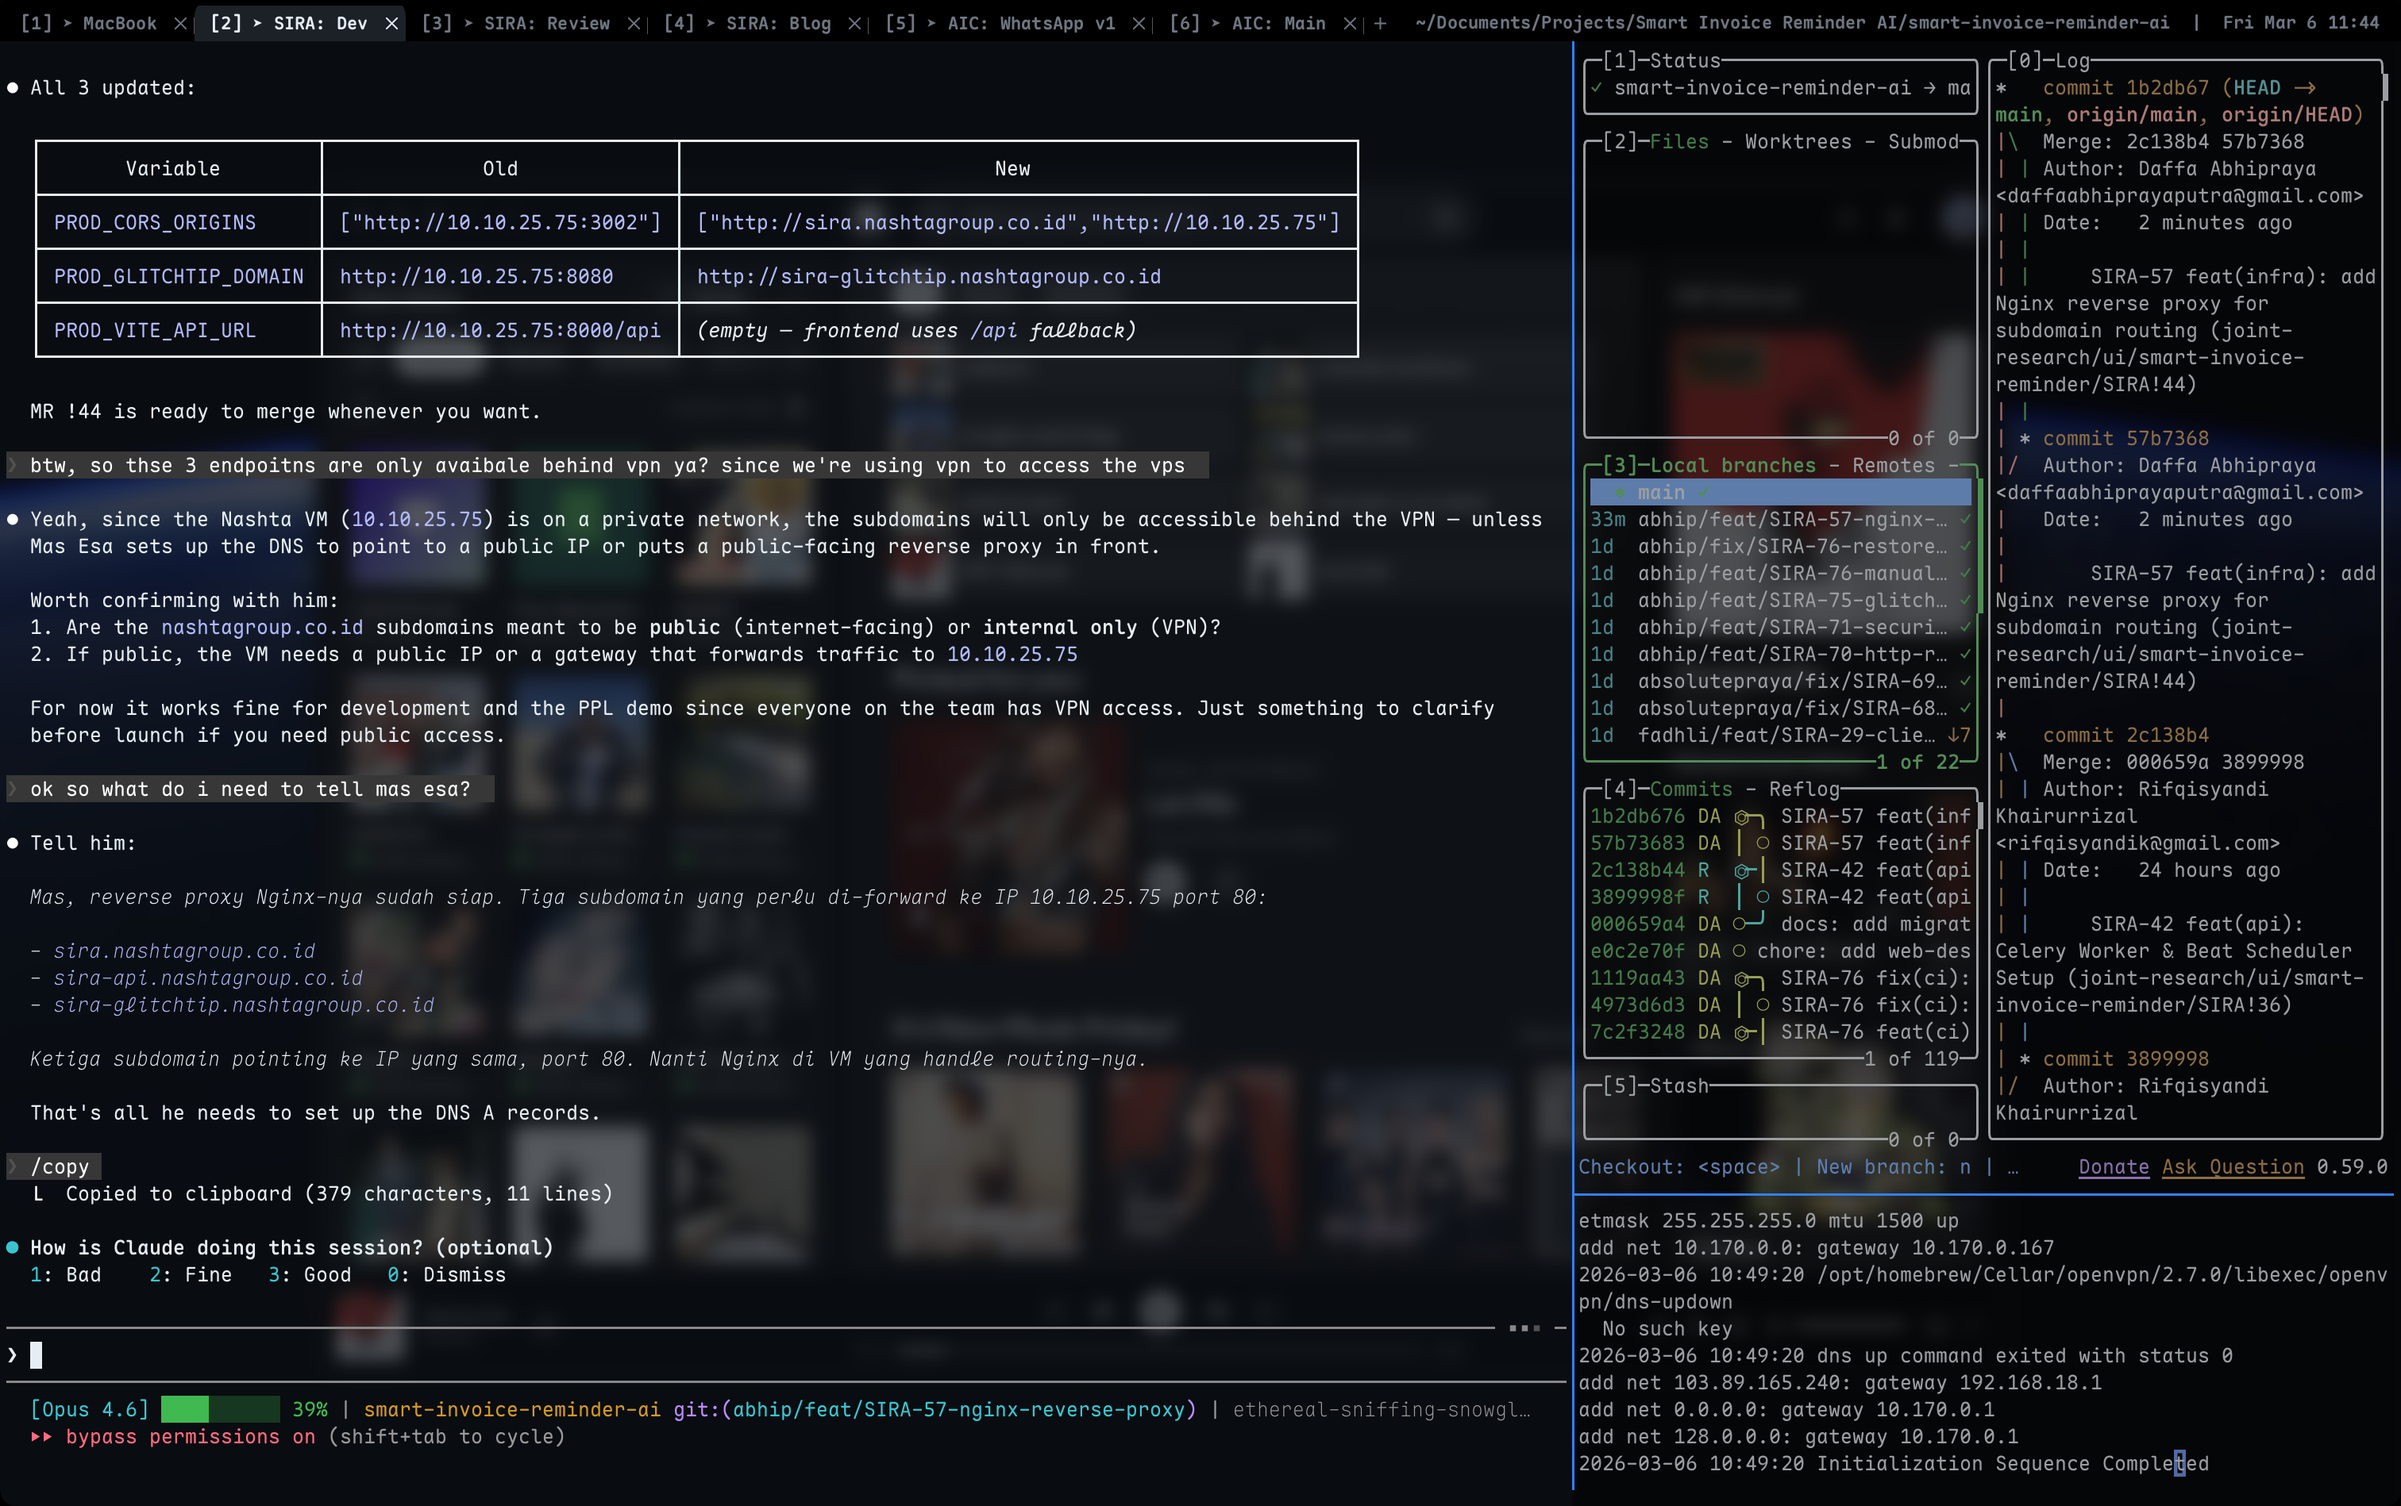
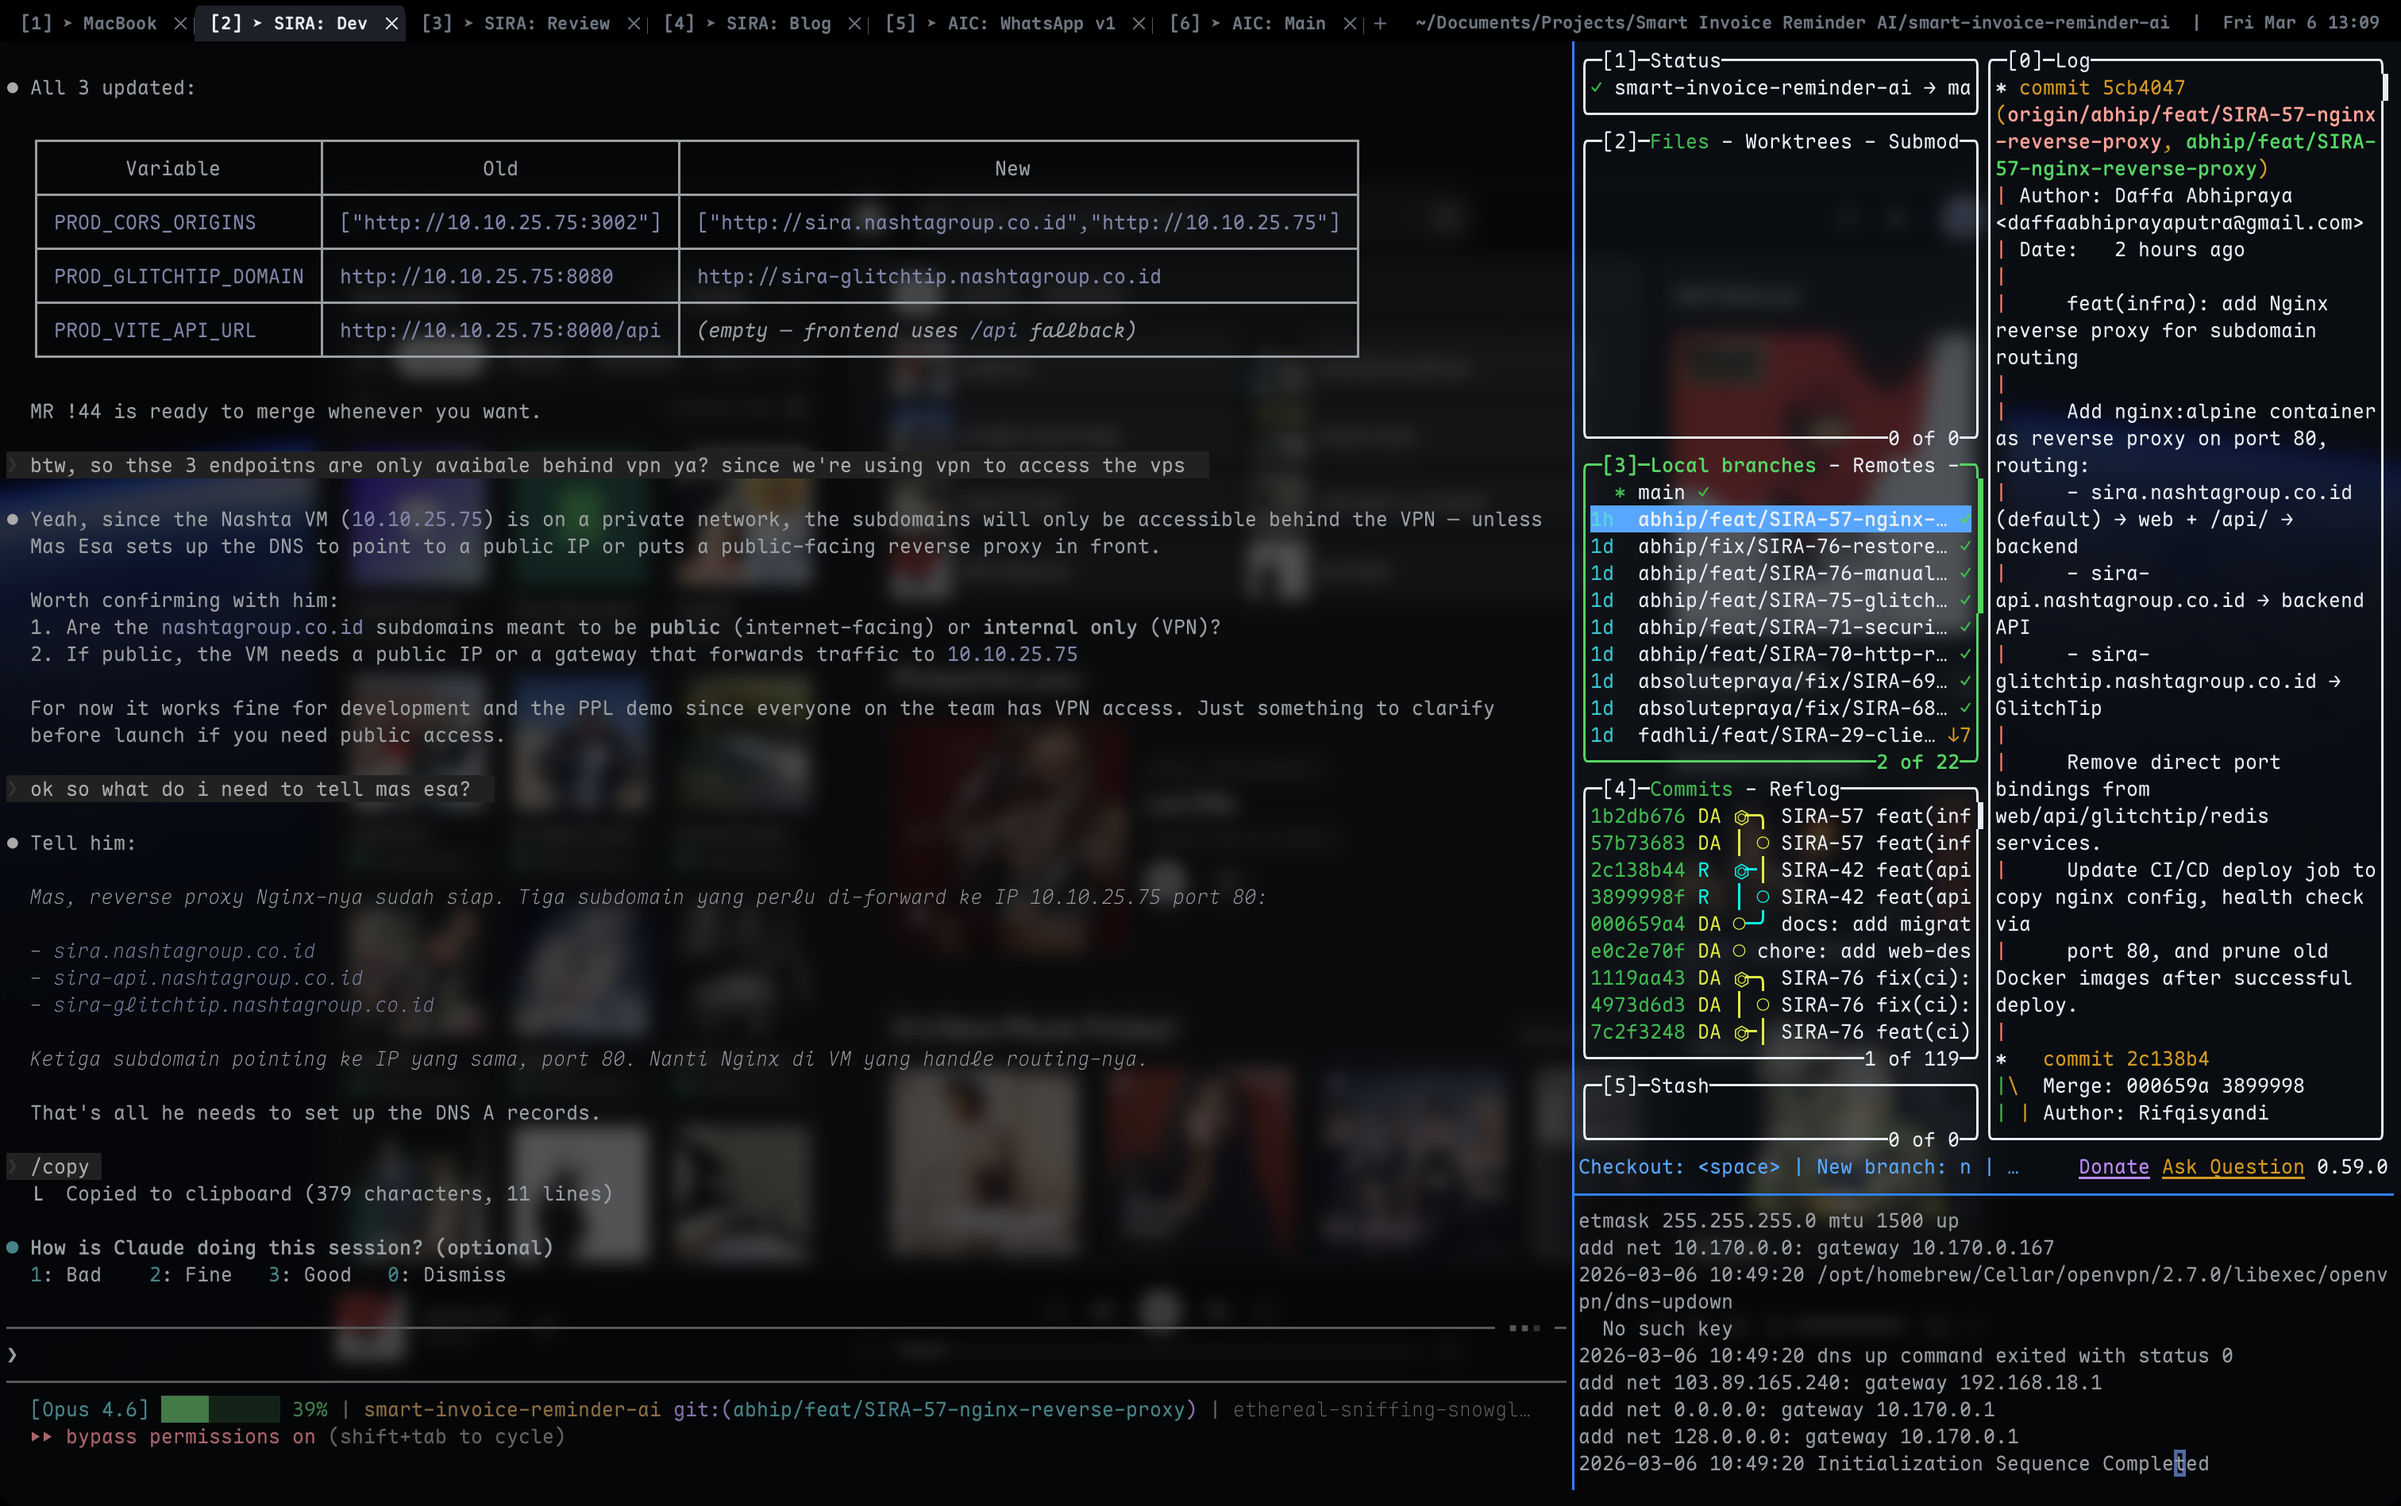
Add caption to lazygit screenshot and update image

diff --git a/assets/css/main.css b/assets/css/main.css
@@ -133,6 +133,18 @@ img, video {
   border-radius: 8px;
 }
 
+.post-content figure {
+  margin: 0;
+}
+
+.post-content figcaption p {
+  text-align: center;
+  font-size: 0.875rem;
+  color: var(--text-muted);
+  margin-top: 0.5rem;
+  font-style: italic;
+}
+
 /* --- Typography --- */
 body {
   font-family: var(--font-family-sans);

diff --git a/content/posts/ppl-b39-ai-literacy.md b/content/posts/ppl-b39-ai-literacy.md
@@ -187,7 +187,7 @@ Creates a GitLab Merge Request using `glab` CLI:
 
 Source: `.claude/commands/commit.md`, `commit-and-push.md`, `create-pr.md`
 
-![Claude Code with lazygit on a split pane — managing git history and diffs directly from the terminal without opening an IDE](/images/ppl/claude-code-lazygit.png)
+{{< figure src="/images/ppl/claude-code-lazygit.png" alt="Claude Code with lazygit on a split pane" caption="Using lazygit on a split pane to manage MRs, branches, pushing, pulling, and more - directly from the terminal." >}}
 
 ## Project Skills — Reusable AI Capabilities
 
